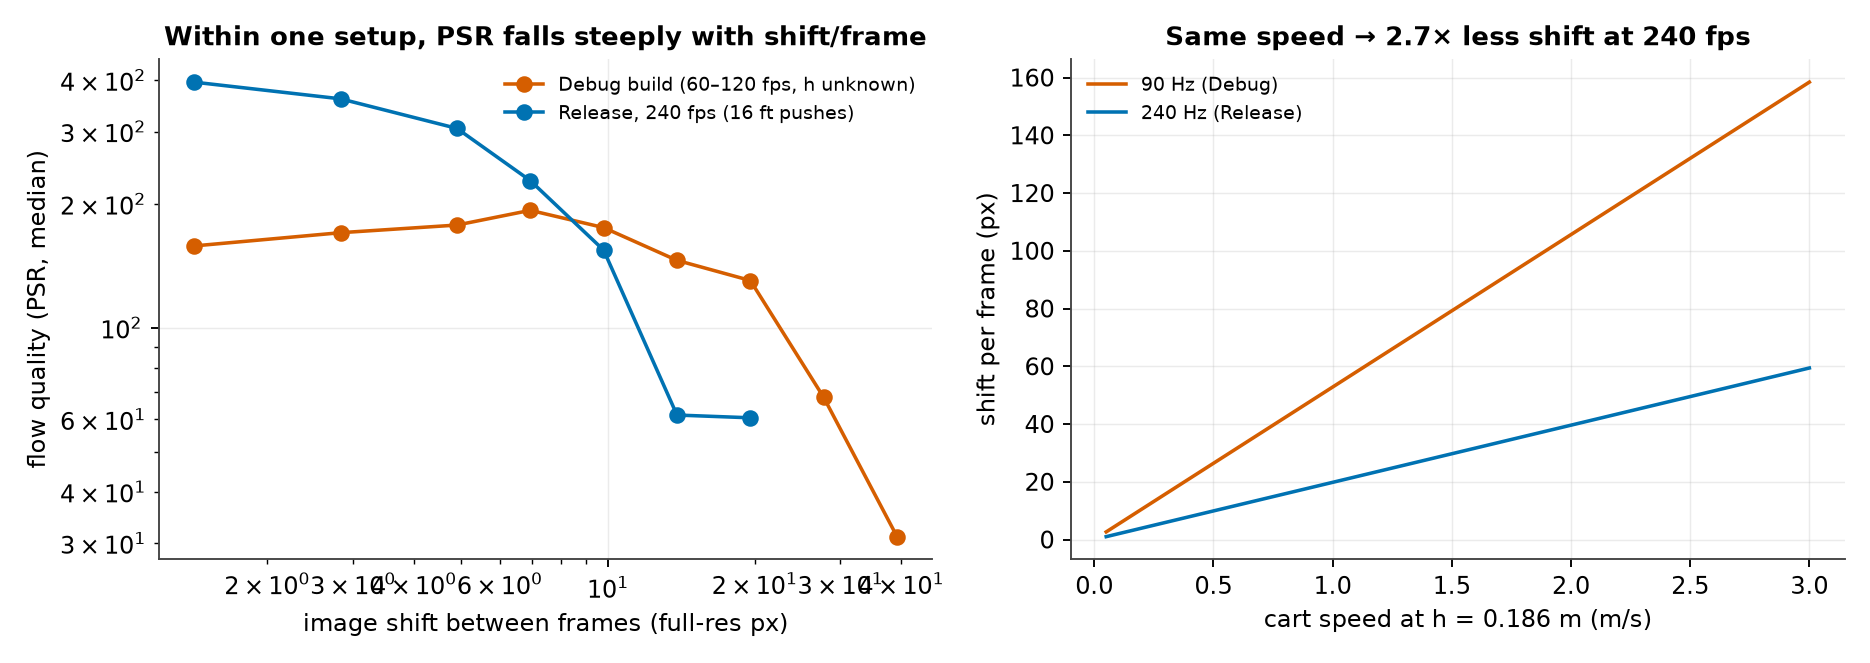
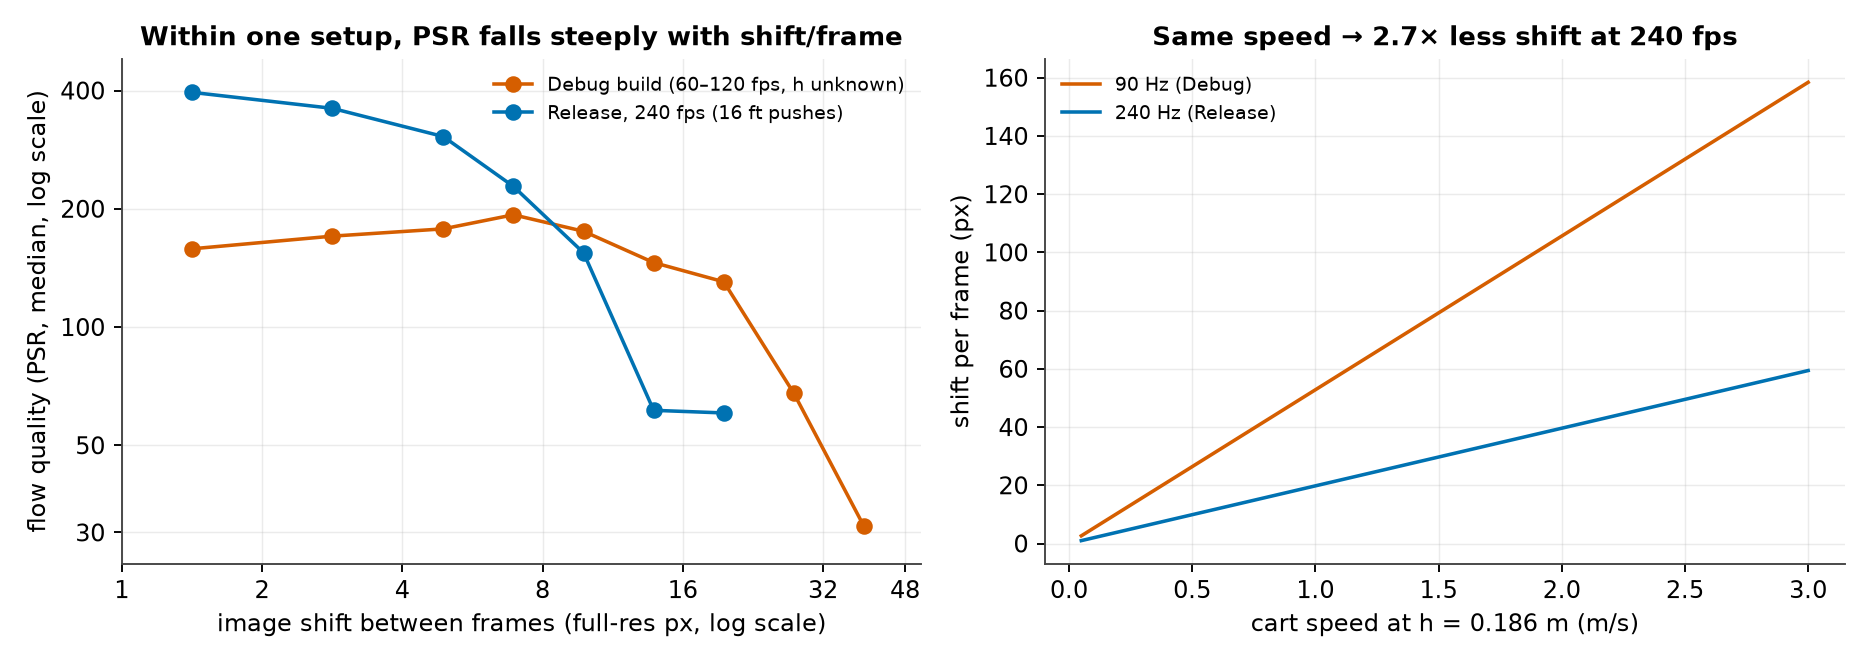
story_framerate: plain tick labels on log axes

diff --git a/analysis/08_story_figures.py b/analysis/08_story_figures.py
@@ -92,7 +92,13 @@ def main():
         ax.plot(mid, m, "o-", color=col, label=era)
         med[era] = dict(zip(mid.round(1).tolist(), m))
     ax.set_xscale("log"); ax.set_yscale("log")
-    ax.set_xlabel("image shift between frames (full-res px)"); ax.set_ylabel("flow quality (PSR, median)")
+    from matplotlib.ticker import FixedLocator, NullFormatter, NullLocator, ScalarFormatter
+    for axis, ticks in ((ax.xaxis, [1, 2, 4, 8, 16, 32, 48]), (ax.yaxis, [30, 50, 100, 200, 400])):
+        axis.set_major_locator(FixedLocator(ticks))
+        axis.set_major_formatter(ScalarFormatter())
+        axis.set_minor_locator(NullLocator()); axis.set_minor_formatter(NullFormatter())
+    ax.set_xlim(1, 52); ax.set_ylim(25, 480)
+    ax.set_xlabel("image shift between frames (full-res px, log scale)"); ax.set_ylabel("flow quality (PSR, median, log scale)")
     ax.set_title("Within one setup, PSR falls steeply with shift/frame")
     ax.legend(fontsize=8)
     ax = axs[1]
